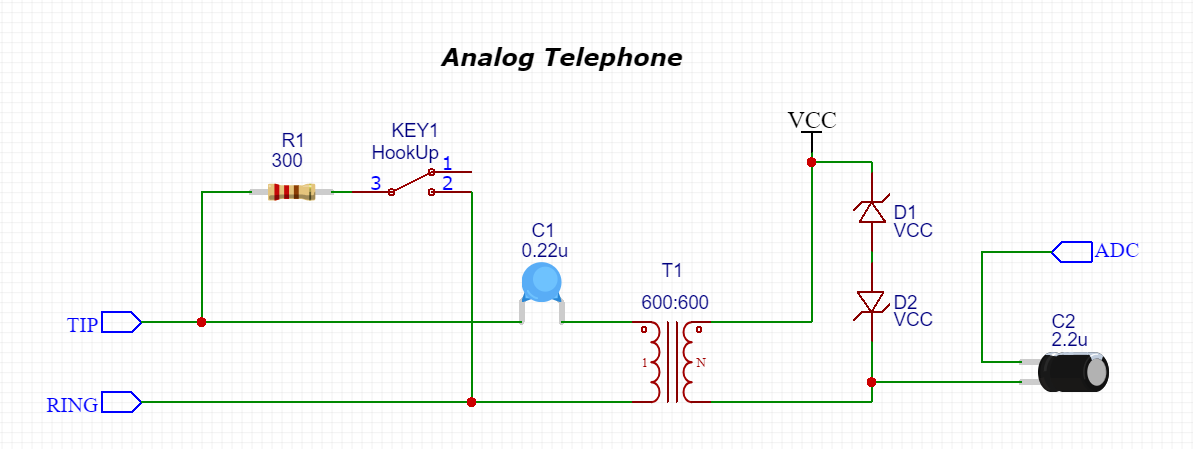
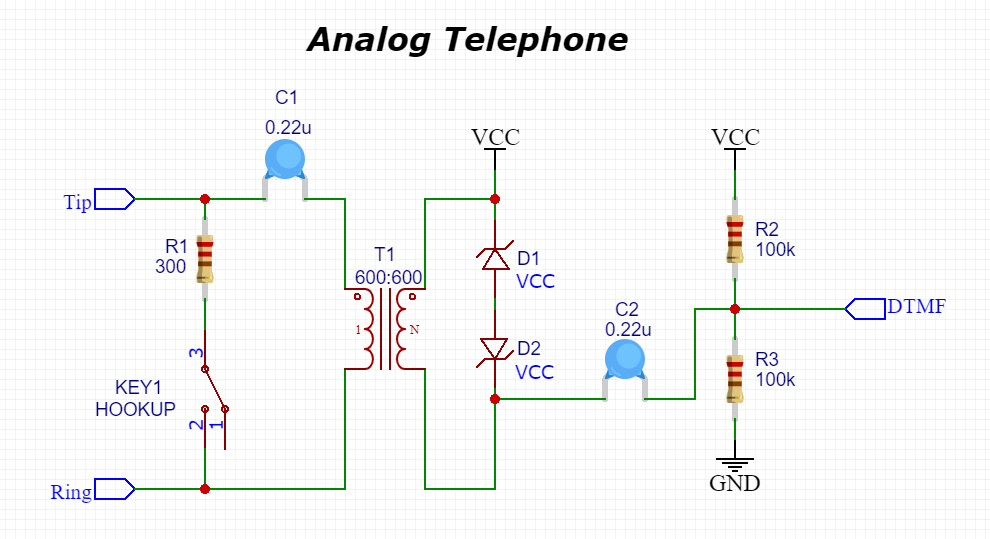
v0.2

diff --git a/src/PhoneDTMF.cpp b/src/PhoneDTMF.cpp
@@ -27,21 +27,23 @@ Released into the public domain.
 
   /// <summary>Constructor, you can set 2 params, if you don't like the standard behaviour</summary>
   /// <param name="sampleCount">number of measurements, default is 128 (with a frequence of 6000Hz it means 128 * 1/6000 = 21.3ms for each measurement). Normal values are from 50 to 200.</param>
-PhoneDTMF::PhoneDTMF(int16_t sampleCount)
+  /// <param name="amplifier">if your signal is not good and you know that you just have 1/5 or 1/10 of the entire amplitude, you can amplify it via software with this parameter. Set a value from 1 to 5</param>
+PhoneDTMF::PhoneDTMF(int16_t sampleCount, float amplifier)
 {               
   _iSamplesCount = sampleCount; 
+  _fAmplifier = amplifier;
   _iCompensation = 0;
   _fBaseMagnitude = 0.0f;
-  _iSamplesFrequence = MAX_FREQ;
+  _iSamplesFrequence = 6000;
   _iRealFrequence = 0;
+  _fAdcCentre = 0.0f;
 }
 
   /// <summary>Init the module (calculate frequence, ADC center, coefficients)</summary>
   /// <remarks>even if the frequence could be 25-50kHz, many microcontroller have a limited ADC reading frequence. 
   /// For example the ESP32 is able to execute readAnalogInput 25.000 times each second but internally it read the inputs only 6000 times.</remarks>
   /// <param name="sensorPin">the pin used to detect the DTMF</param>
-  /// <param name="maxFrequence">maximal frequence to sample DTMF (default is MAX_FREQ = 6000Hz)</param>
-  /// <returns>the REAL sample frequence used to detect signal (&lt;=MAX_FREQ)</returns>
+  /// <param name="maxFrequence">maximal frequence to sample DTMF (set 0 if you want the maximal possible)</param>
 uint16_t PhoneDTMF::begin(uint8_t sensorPin, uint32_t maxFrequence)
 {
   _Pin = sensorPin;
@@ -54,11 +56,16 @@ uint16_t PhoneDTMF::begin(uint8_t sensorPin, uint32_t maxFrequence)
     singleDetect();
   }
   t1 = millis() - t1;
-  float sampleFrequence = (1000.0f / t1) * 1000.0f; 
-  //sampleFrequence *= 0.5;
-  if (sampleFrequence > maxFrequence) _iCompensation = ((1000.0f / (float)maxFrequence) - (1000.0f / (float)sampleFrequence)) * 1000.0f;
+  float sampleFrequence = (1000.0f / t1) * 1000.0f;
+  if (maxFrequence > 0 && sampleFrequence > maxFrequence) _iCompensation = ((1000.0f / (float)maxFrequence) - (1000.0f / (float)sampleFrequence)) * 1000.0f;
+  else maxFrequence = sampleFrequence;
   
-  _iAdcCentre = analogRead(_Pin);
+  float adcCenter = 0.0f;
+  for (uint16_t j = 0; j < 100; j++)
+  {
+	  adcCenter += (float)analogRead(_Pin) / 100.0f;
+  }
+  _iAdcCentre = adcCenter;
   _iSamplesFrequence = (uint32_t)sampleFrequence;
   
   uint32_t oldFreq;
@@ -66,8 +73,16 @@ uint16_t PhoneDTMF::begin(uint8_t sensorPin, uint32_t maxFrequence)
   {
     oldFreq = _iRealFrequence;
     detect(magnitudes);
-    if (_iRealFrequence > maxFrequence  && _iCompensation < 200) _iCompensation++;
-    if (_iRealFrequence < maxFrequence - 150 && _iCompensation > 0) _iCompensation--;
+	if (_iRealFrequence > maxFrequence  && _iCompensation < 200)
+	{
+		_iCompensation++;
+		continue;
+	}
+	if (_iRealFrequence < maxFrequence - 150 && _iCompensation > 0)
+	{
+		_iCompensation--;
+		continue;
+	}
   } while (oldFreq != _iRealFrequence);
 
   _fBaseMagnitude = 0.0f;
@@ -79,6 +94,8 @@ uint16_t PhoneDTMF::begin(uint8_t sensorPin, uint32_t maxFrequence)
   // Calculate the coefficient for each DTMF tone
   for(uint8_t i=0; i<TONES; i++) 
   {
+	  // other example: https://github.com/G6EJD/ESP32-Morse-Decoder/
+	
     omega = (2.0f * PI * DTMF_TONES[i]) / _iRealFrequence;
     
     // DTMF detection doesn't need the phase.
@@ -106,6 +123,7 @@ uint8_t PhoneDTMF::detect(float* pMagnitudes, float magnitude)
   }
   fTemp = millis() - fTemp;
   _iRealFrequence = 1.0f / ((fTemp / 1000.0f) / _iSamplesCount);
+  _iAdcCentre = (_fAdcCentre + _iAdcCentre) / 2;
   return calculateMeasurement(pMagnitudes, magnitude);
 }
 
@@ -133,7 +151,7 @@ uint16_t PhoneDTMF::getAnalogCenter()
 	return _iAdcCentre;
 }
 
-  /// <summary>returns the real frequence by measuring the tones (should be MAX_FREQ=6000)</summary>
+  /// <summary>returns the real frequence by measuring the tones</summary>
 uint32_t PhoneDTMF::getRealFrequence()
 {
 	return _iRealFrequence;
@@ -145,7 +163,7 @@ uint16_t PhoneDTMF::getBaseMagnitude()
 	return (uint16_t)_fBaseMagnitude;
 }
 
-  /// <summary>returns the time for a single measurement</summary>
+  /// <summary>returns the time in ms for a single measurement</summary>
 uint16_t PhoneDTMF::getMeasurementTime()
 {
 	return (uint16_t)((1000.0f / _iRealFrequence) * _iSamplesCount);
@@ -175,7 +193,7 @@ uint8_t PhoneDTMF::calculateMeasurement(float* pRet, float magnitude)
   uint8_t dtmf = 0;
   if (magnitude < 0.0f) 
   {
-    magnitude = (midMag / TONES) * 2.0f;
+    magnitude = (midMag / TONES) * 2.5f;
   }
 
   for (uint8_t i = 0; i < TONES; i++)
@@ -204,10 +222,17 @@ void PhoneDTMF::ProcessSample(int16_t sample)
   //EL_Supremo subtract adc_centre to offset the sample correctly
   for (uint8_t i = 0; i < TONES; i++)
   {
-    Q0 = _afToneCoeff[i] * _afQ1[i] - _afQ2[i] + (float)(sample - _iAdcCentre);
+    Q0 = _afToneCoeff[i] * _afQ1[i] - _afQ2[i] + _fAmplifier * (sample - _iAdcCentre);
     _afQ2[i] = _afQ1[i];
     _afQ1[i] = Q0;
   }
+  _fAdcCentre += (float)sample / (float)_iSamplesCount;
+#ifdef DTMF_DEBUG
+  if (_iDataIndex < 128)
+  {
+    _aiAnalogData[_iDataIndex++] = sample;
+  }
+#endif
 }
 
 /* Call this routine before every "block" (size=N) of samples. */
@@ -218,4 +243,15 @@ void PhoneDTMF::ResetDTMF(void)
     _afQ2[i] = 0;
     _afQ1[i] = 0;
   }
+  _fAdcCentre = 0.0f;
+#ifdef DTMF_DEBUG
+  _iDataIndex = 0;
+#endif
 }
+
+#ifdef DTMF_DEBUG
+uint16_t* PhoneDTMF::getMeasurements()
+{
+  return _aiAnalogData;
+}
+#endif

diff --git a/src/PhoneDTMF.h b/src/PhoneDTMF.h
@@ -26,11 +26,12 @@ Released into the public domain.
 // include types & constants of Wiring core API
 #include "Arduino.h"
 
+//#define DTMF_DEBUG
+
 // library interface description
 class PhoneDTMF
 {
 private:
-  static const uint32_t MAX_FREQ = 6000;
   static const uint8_t  TONES = 8;
   const uint16_t DTMF_TONES[TONES] =
     {
@@ -64,14 +65,21 @@ private:
   uint8_t	_Pin;
 	// The value of ADC if nothing is detected (or in stand by) => this is calculated in the Init function
   int16_t	_iAdcCentre;
+  float		_fAdcCentre;
 	// Magnitude if nothing is detected (or in stand by) => calculated in the Init function
   float		_fBaseMagnitude;
+    // Amplify measured signal, so it will be detected better (only if the signal does not cover the full amplitude)
+  float     _fAmplifier;
+#ifdef DTMF_DEBUG
+  uint16_t  _aiAnalogData[128];
+  uint8_t	_iDataIndex;
+#endif
   
   // user-accessible "public" interface
 public:
     
-  PhoneDTMF(int16_t sampleCount = 128);
-  uint16_t begin(uint8_t sensorPin, uint32_t maxFrequence = MAX_FREQ);
+  PhoneDTMF(int16_t sampleCount = 128, float amplifier = 1.0f);
+  uint16_t begin(uint8_t sensorPin, uint32_t maxFrequence = 0);
   uint8_t detect(float* pMagnitudes = NULL, float magnitude = -1.0f);
   char tone2char(uint8_t dtmf);
 	
@@ -80,6 +88,10 @@ public:
   uint16_t getAnalogCenter();
   uint16_t getBaseMagnitude();
   uint16_t getMeasurementTime();
+
+#ifdef DTMF_DEBUG
+  uint16_t* getMeasurements();
+#endif
   
   // library-accessible "private" interface
 private:

diff --git a/README.md b/README.md
@@ -23,15 +23,16 @@ void loop() {
 }
 ~~~~
 
-###### PhoneDTMF(int16_t sampleCount = 128)
+###### PhoneDTMF(int16_t sampleCount = 128, float amplify = 1.0f)
 > Constructor to init the library.  
-> Set ***`sampleCount`*** to define how many times the analog input should be sampled on each request. It must be at least 50 if you want a good result. 50 to 200 are standard values. Higher value gives you a better result but need more time to be executed. 128 samples with a frequence of 6000Hz need 128 \* 1 / 6000 = 21.3ms to be executed. So every call to `detect()` need 21ms.  
+> Set ***`sampleCount`*** to define how many times the analog input should be sampled on each request. It must be at least 50 if you want a good result. 50 to 300 are standard values. Higher value gives you a better result but need more time to be executed. 128 samples with a frequence of 6000Hz need 128 \* 1 / 6000 = 21.3ms to be executed. So every call to `detect()` need 21ms.  
+> Set ***`amplify`*** if your signal is not good or if your signal does not cover the entire amplitude. Standard values are from 1.0 to 4.0, if you need to amplify it more than 4 times, it would be better to put an opamp on your circuit.
 
-###### uint16_t begin(uint8_t sensorPin, uint32_t maxFrequence = MAX_FREQ)
+###### uint16_t begin(uint8_t sensorPin, uint32_t maxFrequence = 0)
 > begin the library  
 > ***`sensorPin`*** is the analog pin used to detect the DTMF, must be an anlog pin.  
-> ***`maxFrequence`*** is the frequence you want to use for detecting the signal. MAX_FREQ is 6000Hz.  
-> Returns the real frequence (<=MAX_FREQ) used to detect the signal.  
+> ***`maxFrequence`*** is the frequence you want to use for detecting the signal. Leave 0 to use the maximal frequence available on your microcontroller or set the desired frequence (example 6000 for 6kHz).  
+> Returns the real frequence (&lt;=MAX_FREQ) used to detect the signal.  
 
 ###### uint8_t detect(float* pMagnitudes = NULL, float magnitude = -1.0f)
 > Call this function, every time you want measure the signal. As this is a sync-function, it need some times (~20ms) to return a value. After calling this function, you can use `getRealFrequence()` to see if it was done in the right time (just for a better result), this should be the same frequence as the one returned by the `begin()` function.  

diff --git a/circuits/README.md b/circuits/README.md
@@ -9,7 +9,10 @@ Between Tip and Ring you have `-48V DC` in idle and `-48V DC + 90V AC` when it i
 So, if you want just the audio signal, put a capacitor of 0.22μF to remove the DC component and an audio transformer 600:600 to have an isolation between the high voltage line and your microcontroller.
 
 #### ADC
-Now the last part: let say you are powering your microcontroller with VCC (3.3V or 5V). To protect your input, set 2 zener diodes (3.3V or 5V) to VCC, so you will never go over this voltage. Since the ADC need a good input, set one transformer output to VCC and the other to your ADC. And also here, since you need to measure the ADC and don't want the DC component, just insert a capacitor of 2.2μF to be sure to exclude the DC component.
+Now the last part: let say you are powering your microcontroller with VCC (3.3V or 5V). To protect your input, set 2 zener diodes (3.3V or 5V) to VCC, so you will never go over this voltage. Since the ADC need a good input, set one transformer output to VCC and the other to your ADC. And also here, since you need to measure the ADC and don't want the DC component, just insert a capacitor of 0.22μF or 0.39uF to be sure to exclude the DC component.
 
 #### READY!
-You can still optimize this circuit, to make it more stable and filter the signal a little bit better (for example put a 10k resistor to VCC and a 10k resistor to GND just before the ADC pin, so the ADC center will be exactly VCC/2). But I was able to detect my DTMF over the landline phone with exactly this circuit and the dtmf2oled example.
+You can still optimize this circuit, to make it more stable and filter the signal a little bit better (for example put a 100k resistor to VCC and a 100k resistor to GND just before the ADC pin, so the ADC center will be exactly VCC/2).
+
+### Analog Telephone Note
+When it is ringing, you have a 90V AC component on your transformer. So you will have 90V AC also over your diode. They are really important! You don't have really a current, you just have a high voltage. Once you hook up, you will have an analog signal with an amplitude of ~0.4-0.8V. Probably you would detect it without C2, R2 and R3. They just gives you a better and regulated signal.
